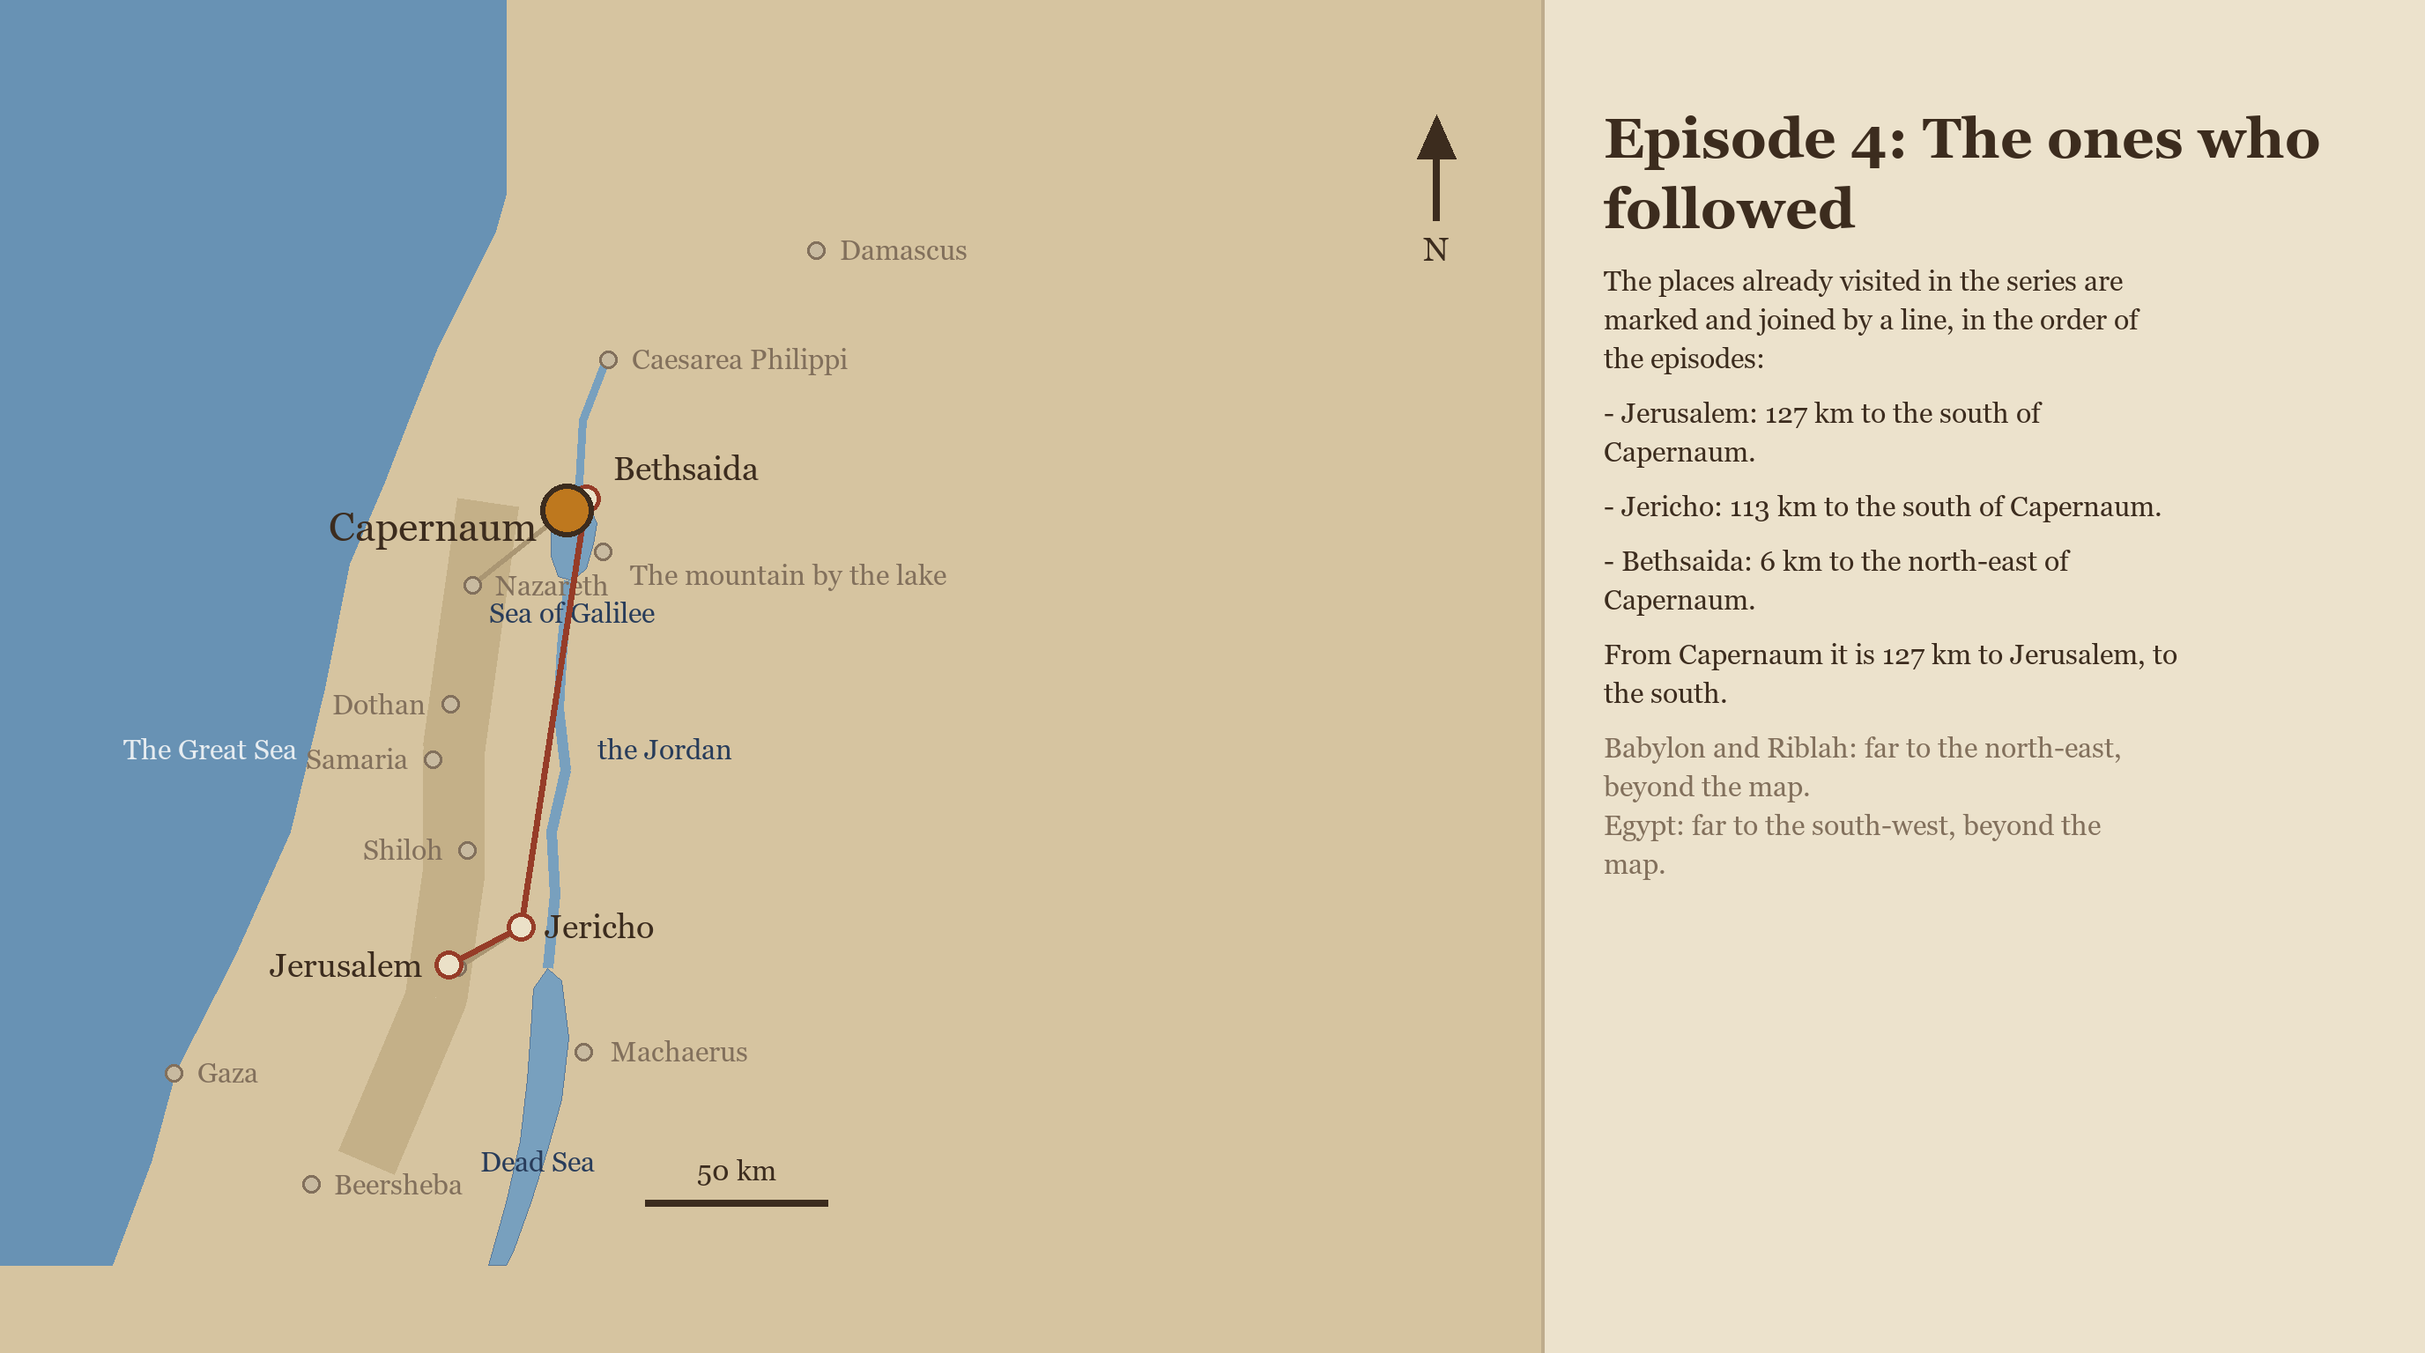
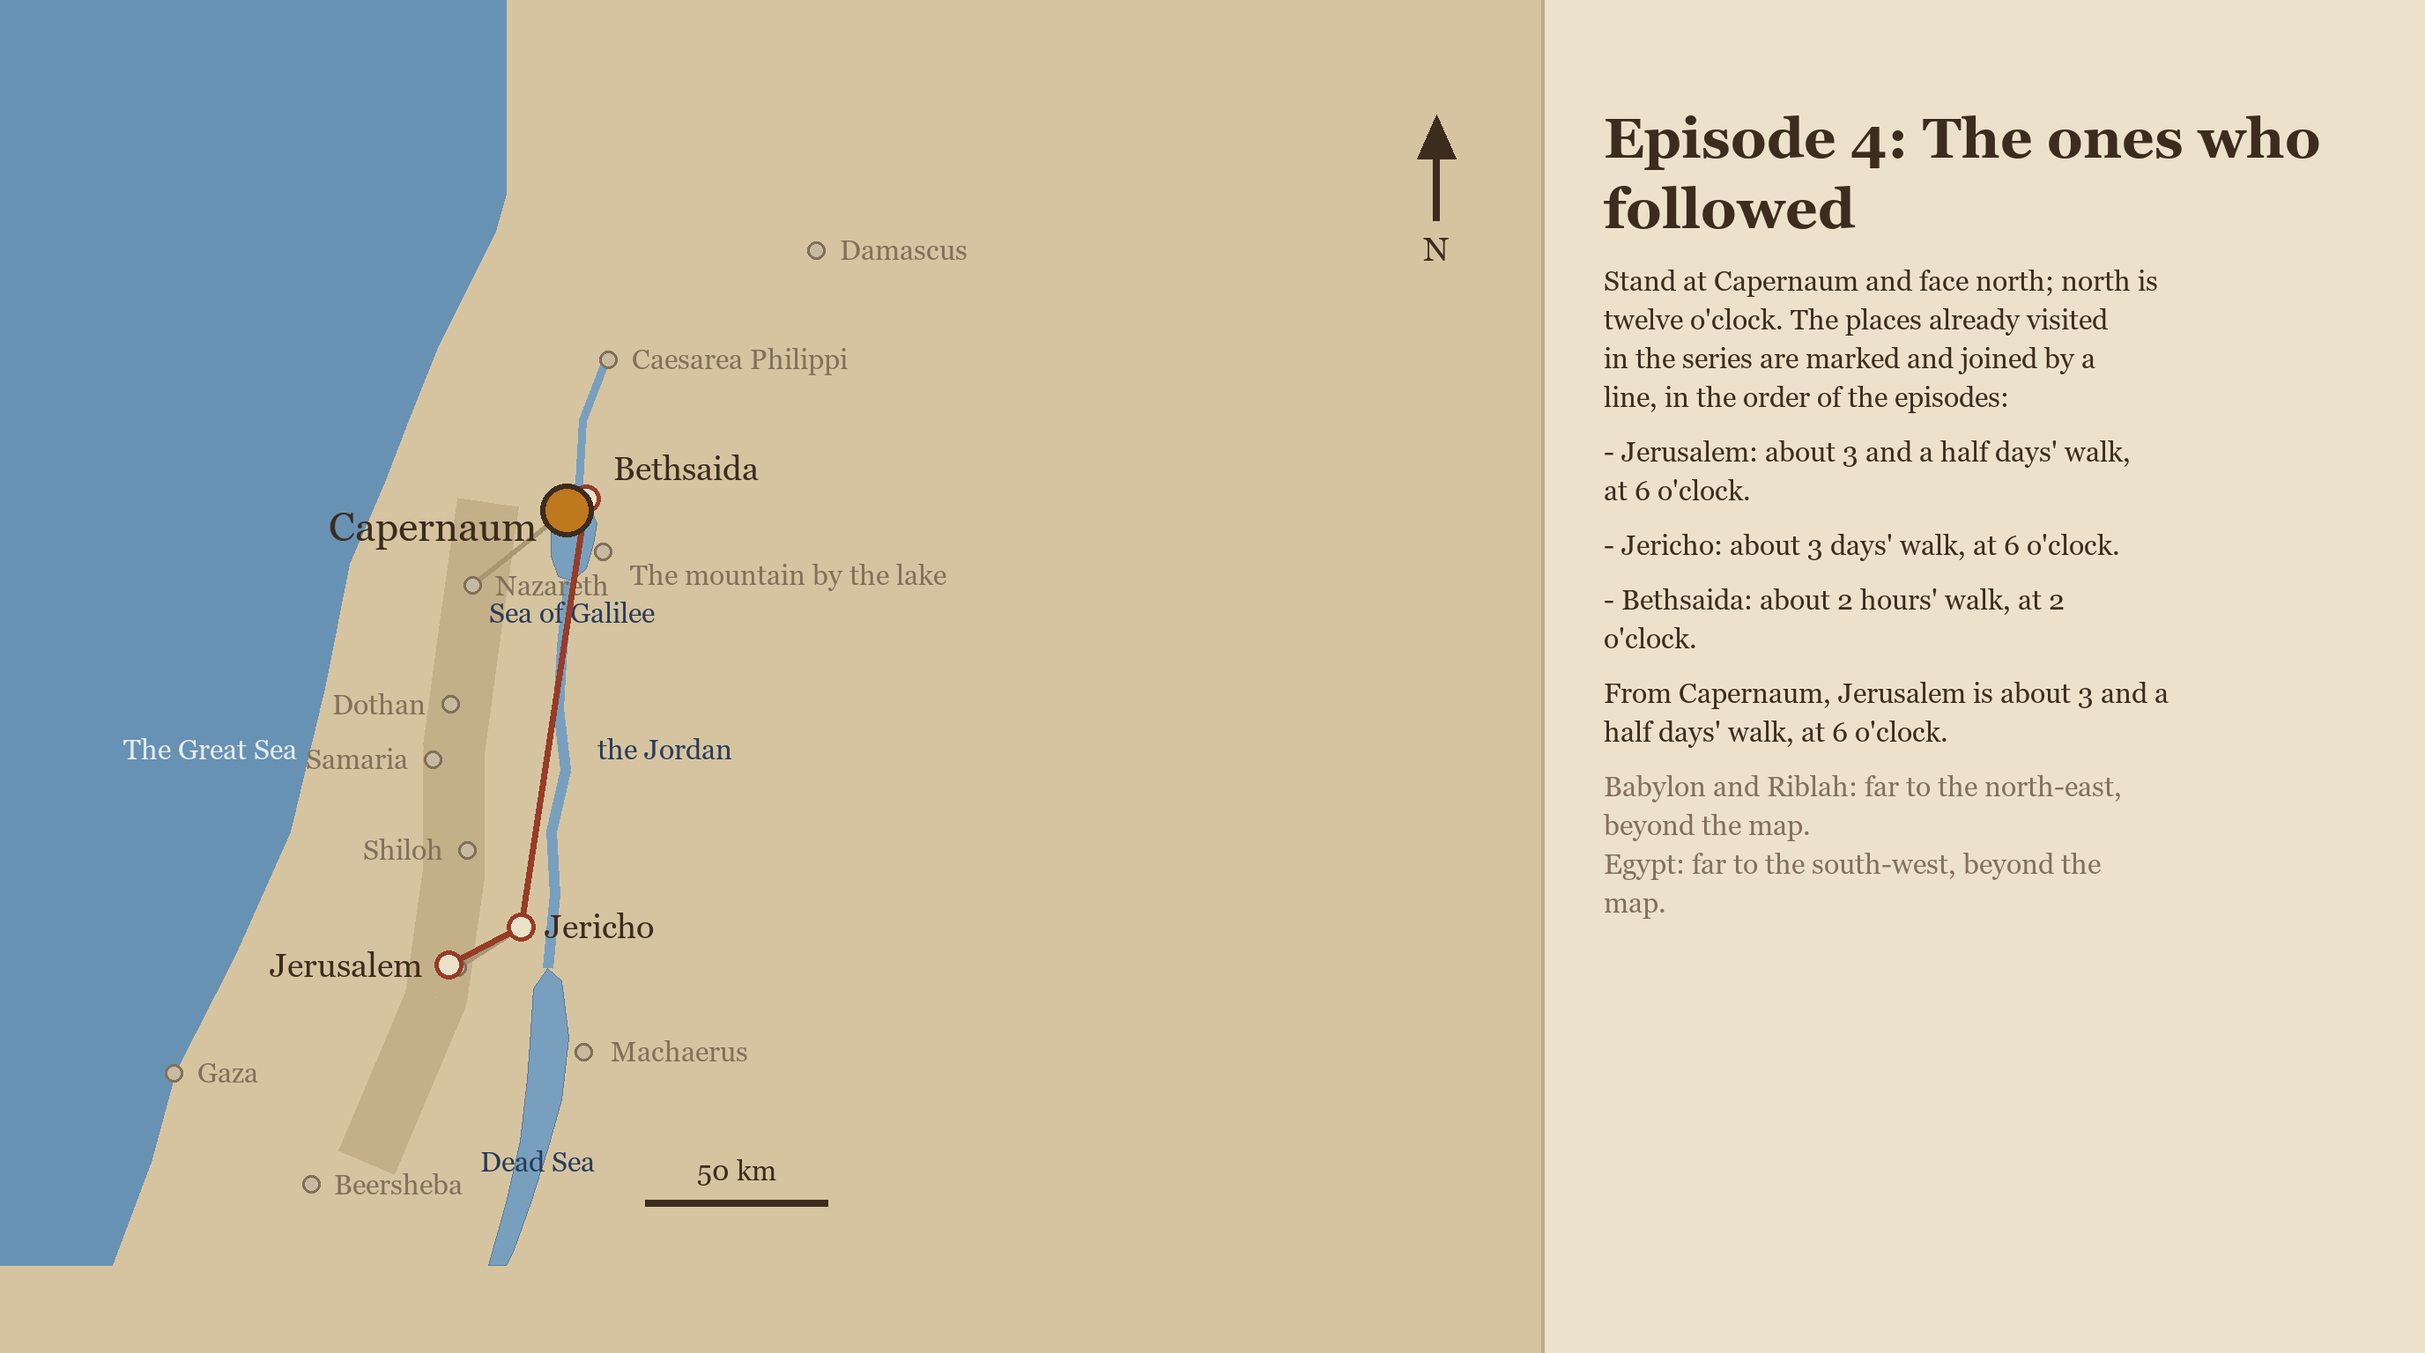
Map descriptions in walking time and clock-face directions, calibrated to Edersheim and Josephus

Changed region(s): [[0.6562, 0.1875, 0.875, 0.6875]]

diff --git a/audio/maps/make_map.py b/audio/maps/make_map.py
@@ -68,6 +68,38 @@ def km(a: dict, b: dict) -> float:
     return 2 * r * math.asin(math.sqrt(h))
 
 
+def walk_words(straight_km: float) -> str:
+    """Straight-line km to spoken walking time. Roads wind, so the distance is lengthened by a quarter. Short
+    stretches: 4 km an hour, which gives Edersheim's six hours from Jericho up to Jerusalem. Long journeys: 45 km
+    a day, which gives Josephus's three days from Galilee to Jerusalem (Life 269) for a pilgrim walking hard."""
+    road = straight_km * 1.25
+    hours = road / 4.0
+    if hours < 1:
+        return "under an hour's walk"
+    if hours < 1.5:
+        return "about an hour's walk"
+    if hours <= 9:
+        return f"about {int(round(hours))} hours' walk"
+    days = road / 45.0
+    half = round(days * 2) / 2
+    if half <= 1:
+        return "about a day's walk"
+    if half == int(half):
+        return f"about {int(half)} days' walk"
+    return f"about {int(half)} and a half days' walk"
+
+
+def clock_word(a: dict, b: dict) -> str:
+    """Direction from a to b as a clock face, north at twelve."""
+    p1, p2 = math.radians(a["lat"]), math.radians(b["lat"])
+    dl = math.radians(b["lon"] - a["lon"])
+    y = math.sin(dl) * math.cos(p2)
+    x = math.cos(p1) * math.sin(p2) - math.sin(p1) * math.cos(p2) * math.cos(dl)
+    deg = (math.degrees(math.atan2(y, x)) + 360) % 360
+    hour = int(round(deg / 30)) % 12
+    return f"{12 if hour == 0 else hour} o'clock"
+
+
 def bearing_word(a: dict, b: dict) -> str:
     p1, p2 = math.radians(a["lat"]), math.radians(b["lat"])
     dl = math.radians(b["lon"] - a["lon"])
@@ -193,7 +225,8 @@ def describe(ep_key: str | None) -> str:
         for k, p in places.items():
             if p["kind"] in ("water", "river") or k == "jerusalem":
                 continue
-            lines.append(f"- {p['name']}: {km(jer, p):.0f} km to the {bearing_word(jer, p)}. {p.get('note', '')}".rstrip())
+            lines.append(f"- {p['name']}: {walk_words(km(jer, p))}, at {clock_word(jer, p)} from Jerusalem. "
+                         f"{p.get('note', '')}".rstrip())
         for o in DATA["off_map"]:
             lines.append(f"- {o['name']}: {o['direction']}, beyond the map. {o['note']}")
         return "\n".join(lines)
@@ -202,15 +235,15 @@ def describe(ep_key: str | None) -> str:
     lines = [f"Episode {int(ep_key[2:])}, {ep['title']}. The map highlights {fp['name']} in gold. {fp.get('note', '')}".rstrip()]
     if ep.get("focus2"):
         p2 = places[ep["focus2"]]
-        lines.append(f"A second gold mark is {p2['name']}, {km(fp, p2):.0f} km to the {bearing_word(fp, p2)} of "
-                     f"{fp['name']}. {p2.get('note', '')}".rstrip())
+        lines.append(f"A second gold mark is {p2['name']}, {walk_words(km(fp, p2))} from {fp['name']}, at "
+                     f"{clock_word(fp, p2)}. {p2.get('note', '')}".rstrip())
     if ep["visited"]:
-        lines.append("The places already visited in the series are marked and joined by a line, in the order of the "
-                     "episodes:")
+        lines.append(f"Stand at {fp['name']} and face north; north is twelve o'clock. The places already visited "
+                     "in the series are marked and joined by a line, in the order of the episodes:")
         for k in ep["visited"]:
             p = places[k]
-            lines.append(f"- {p['name']}: {km(fp, p):.0f} km to the {bearing_word(fp, p)} of {fp['name']}.")
-    lines.append(f"From {fp['name']} it is {km(fp, jer):.0f} km to Jerusalem, to the {bearing_word(fp, jer)}."
+            lines.append(f"- {p['name']}: {walk_words(km(fp, p))}, at {clock_word(fp, p)}.")
+    lines.append(f"From {fp['name']}, Jerusalem is {walk_words(km(fp, jer))}, at {clock_word(fp, jer)}."
                  if ep["focus"] != "jerusalem" else "Jerusalem is the city itself.")
     return "\n".join(lines)
 
@@ -218,7 +251,7 @@ def describe(ep_key: str | None) -> str:
 def main() -> None:
     md = ["# The series map, in words", "",
           "Each map is drawn from real coordinates (audio/maps/places.json). The description below each one is the "
-          "map for a listener who cannot see it. Distances are straight-line kilometres.", ""]
+          "map for a listener who cannot see it. Distances are given as walking time on the roads of the day, and directions as a clock face with north at twelve.", ""]
     out, text = render(None)
     md += [f"## base.png", "", text, ""]
     print("wrote", out.name)

diff --git a/audio/maps/descriptions.md b/audio/maps/descriptions.md
@@ -1,24 +1,24 @@
 # The series map, in words
 
-Each map is drawn from real coordinates (audio/maps/places.json). The description below each one is the map for a listener who cannot see it. Distances are straight-line kilometres.
+Each map is drawn from real coordinates (audio/maps/places.json). The description below each one is the map for a listener who cannot see it. Distances are given as walking time on the roads of the day, and directions as a clock face with north at twelve.
 
 ## base.png
 
 Base map. The Great Sea lies to the west. The Jordan runs south from the Sea of Galilee to the Dead Sea. Jerusalem sits in the hills west of the Dead Sea's north end. Distances from Jerusalem:
-- Jericho: 22 km to the north-east. Herod's Jericho stood a little south-west of the old mound; the two are drawn as one.
-- Bethany: 3 km to the east. On the Jerusalem side of the Mount of Olives, the last stop on the road up from Jericho.
-- Capernaum: 127 km to the north. Jesus's base in Galilee; Edersheim's placing of the two blind men, not certain.
-- Bethsaida: 131 km to the north. Which ruin is Bethsaida is still argued; et-Tell is drawn, el-Araj lies 2 km south on the shore.
-- Nazareth: 103 km to the north. Where Jesus read Isaiah 61, 'recovery of sight to the blind'.
-- The mountain by the lake: 119 km to the north. Edersheim's placing, on the eastern shore in the Decapolis; Matthew gives only the Sea of Galilee and a mountain.
-- Machaerus: 44 km to the south-east. Herod's fortress east of the Dead Sea, where John the Baptist was held and killed, by Josephus.
-- Shiloh: 31 km to the north. Eli at the tabernacle; Ahijah's house, where Jeroboam's wife came in disguise.
-- Gaza: 80 km to the west. Where Samson, blinded, ground grain and pulled down the temple of Dagon.
-- Beersheba: 70 km to the south-west. Isaac's country; the blessing was given from his tent, place not named in Genesis 27.
-- Samaria: 56 km to the north. Where Elisha led the blinded Syrian army and had their eyes opened.
-- Dothan: 70 km to the north. Where the Syrians were struck blind and the servant's eyes were opened to the hills full of horses and chariots.
-- Damascus: 217 km to the north-east. Saul, blinded on the road, was led in by the hand; Straight Street is still there.
-- Caesarea Philippi: 169 km to the north. Just after Bethsaida in Mark, where Peter said 'You are the Christ'.
+- Jericho: about 7 hours' walk, at 2 o'clock from Jerusalem. Herod's Jericho stood a little south-west of the old mound; the two are drawn as one.
+- Bethany: under an hour's walk, at 4 o'clock from Jerusalem. On the Jerusalem side of the Mount of Olives, the last stop on the road up from Jericho.
+- Capernaum: about 3 and a half days' walk, at 12 o'clock from Jerusalem. Jesus's base in Galilee; Edersheim's placing of the two blind men, not certain.
+- Bethsaida: about 3 and a half days' walk, at 1 o'clock from Jerusalem. Which ruin is Bethsaida is still argued; et-Tell is drawn, el-Araj lies 2 km south on the shore.
+- Nazareth: about 3 days' walk, at 12 o'clock from Jerusalem. Where Jesus read Isaiah 61, 'recovery of sight to the blind'.
+- The mountain by the lake: about 3 and a half days' walk, at 1 o'clock from Jerusalem. Edersheim's placing, on the eastern shore in the Decapolis; Matthew gives only the Sea of Galilee and a mountain.
+- Machaerus: about a day's walk, at 4 o'clock from Jerusalem. Herod's fortress east of the Dead Sea, where John the Baptist was held and killed, by Josephus.
+- Shiloh: about a day's walk, at 12 o'clock from Jerusalem. Eli at the tabernacle; Ahijah's house, where Jeroboam's wife came in disguise.
+- Gaza: about 2 days' walk, at 8 o'clock from Jerusalem. Where Samson, blinded, ground grain and pulled down the temple of Dagon.
+- Beersheba: about 2 days' walk, at 7 o'clock from Jerusalem. Isaac's country; the blessing was given from his tent, place not named in Genesis 27.
+- Samaria: about 1 and a half days' walk, at 12 o'clock from Jerusalem. Where Elisha led the blinded Syrian army and had their eyes opened.
+- Dothan: about 2 days' walk, at 12 o'clock from Jerusalem. Where the Syrians were struck blind and the servant's eyes were opened to the hills full of horses and chariots.
+- Damascus: about 6 days' walk, at 1 o'clock from Jerusalem. Saul, blinded on the road, was led in by the hand; Straight Street is still there.
+- Caesarea Philippi: about 4 and a half days' walk, at 12 o'clock from Jerusalem. Just after Bethsaida in Mark, where Peter said 'You are the Christ'.
 - Babylon and Riblah: far to the north-east, beyond the map. Zedekiah was blinded at Riblah in Syria and taken to Babylon; both lie beyond this map.
 - Egypt: far to the south-west, beyond the map. Jacob blessed Joseph's sons in Egypt, beyond this map.
 - Nineveh and Ecbatana: far to the north-east, beyond the map. Tobit's story, if included, lies in Assyria and Media, beyond this map.
@@ -31,46 +31,46 @@ Jerusalem is the city itself.
 ## ep02.png
 
 Episode 2, Bartimaeus at Jericho. The map highlights Jericho in gold. Herod's Jericho stood a little south-west of the old mound; the two are drawn as one.
-The places already visited in the series are marked and joined by a line, in the order of the episodes:
-- Jerusalem: 22 km to the south-west of Jericho.
-From Jericho it is 22 km to Jerusalem, to the south-west.
+Stand at Jericho and face north; north is twelve o'clock. The places already visited in the series are marked and joined by a line, in the order of the episodes:
+- Jerusalem: about 7 hours' walk, at 8 o'clock.
+From Jericho, Jerusalem is about 7 hours' walk, at 8 o'clock.
 
 ## ep03.png
 
 Episode 3, The blind man at Bethsaida. The map highlights Bethsaida in gold. Which ruin is Bethsaida is still argued; et-Tell is drawn, el-Araj lies 2 km south on the shore.
-The places already visited in the series are marked and joined by a line, in the order of the episodes:
-- Jerusalem: 131 km to the south of Bethsaida.
-- Jericho: 117 km to the south of Bethsaida.
-From Bethsaida it is 131 km to Jerusalem, to the south.
+Stand at Bethsaida and face north; north is twelve o'clock. The places already visited in the series are marked and joined by a line, in the order of the episodes:
+- Jerusalem: about 3 and a half days' walk, at 7 o'clock.
+- Jericho: about 3 days' walk, at 6 o'clock.
+From Bethsaida, Jerusalem is about 3 and a half days' walk, at 7 o'clock.
 
 ## ep04.png
 
 Episode 4, The ones who followed. The map highlights Capernaum in gold. Jesus's base in Galilee; Edersheim's placing of the two blind men, not certain.
-The places already visited in the series are marked and joined by a line, in the order of the episodes:
-- Jerusalem: 127 km to the south of Capernaum.
-- Jericho: 113 km to the south of Capernaum.
-- Bethsaida: 6 km to the north-east of Capernaum.
-From Capernaum it is 127 km to Jerusalem, to the south.
+Stand at Capernaum and face north; north is twelve o'clock. The places already visited in the series are marked and joined by a line, in the order of the episodes:
+- Jerusalem: about 3 and a half days' walk, at 6 o'clock.
+- Jericho: about 3 days' walk, at 6 o'clock.
+- Bethsaida: about 2 hours' walk, at 2 o'clock.
+From Capernaum, Jerusalem is about 3 and a half days' walk, at 6 o'clock.
 
 ## ep05.png
 
 Episode 5, The blind in the crowd. The map highlights The mountain by the lake in gold. Edersheim's placing, on the eastern shore in the Decapolis; Matthew gives only the Sea of Galilee and a mountain.
-A second gold mark is Jerusalem, 119 km to the south of The mountain by the lake. The Pool of Siloam is at the south end of the city; the Temple Mount at its east.
-The places already visited in the series are marked and joined by a line, in the order of the episodes:
-- Jerusalem: 119 km to the south of The mountain by the lake.
-- Jericho: 103 km to the south of The mountain by the lake.
-- Bethsaida: 15 km to the north of The mountain by the lake.
-- Capernaum: 15 km to the north-west of The mountain by the lake.
-From The mountain by the lake it is 119 km to Jerusalem, to the south.
+A second gold mark is Jerusalem, about 3 and a half days' walk from The mountain by the lake, at 7 o'clock. The Pool of Siloam is at the south end of the city; the Temple Mount at its east.
+Stand at The mountain by the lake and face north; north is twelve o'clock. The places already visited in the series are marked and joined by a line, in the order of the episodes:
+- Jerusalem: about 3 and a half days' walk, at 7 o'clock.
+- Jericho: about 3 days' walk, at 6 o'clock.
+- Bethsaida: about 5 hours' walk, at 11 o'clock.
+- Capernaum: about 5 hours' walk, at 11 o'clock.
+From The mountain by the lake, Jerusalem is about 3 and a half days' walk, at 7 o'clock.
 
 ## ep06.png
 
 Episode 6, The answer to John. The map highlights Machaerus in gold. Herod's fortress east of the Dead Sea, where John the Baptist was held and killed, by Josephus.
-A second gold mark is Nazareth, 129 km to the north of Machaerus. Where Jesus read Isaiah 61, 'recovery of sight to the blind'.
-The places already visited in the series are marked and joined by a line, in the order of the episodes:
-- Jerusalem: 44 km to the north-west of Machaerus.
-- Jericho: 38 km to the north-west of Machaerus.
-- Bethsaida: 149 km to the north of Machaerus.
-- Capernaum: 146 km to the north of Machaerus.
-- The mountain by the lake: 135 km to the north of Machaerus.
-From Machaerus it is 44 km to Jerusalem, to the north-west.
+A second gold mark is Nazareth, about 3 and a half days' walk from Machaerus, at 12 o'clock. Where Jesus read Isaiah 61, 'recovery of sight to the blind'.
+Stand at Machaerus and face north; north is twelve o'clock. The places already visited in the series are marked and joined by a line, in the order of the episodes:
+- Jerusalem: about a day's walk, at 10 o'clock.
+- Jericho: about a day's walk, at 11 o'clock.
+- Bethsaida: about 4 days' walk, at 12 o'clock.
+- Capernaum: about 4 days' walk, at 12 o'clock.
+- The mountain by the lake: about 3 and a half days' walk, at 12 o'clock.
+From Machaerus, Jerusalem is about a day's walk, at 10 o'clock.
